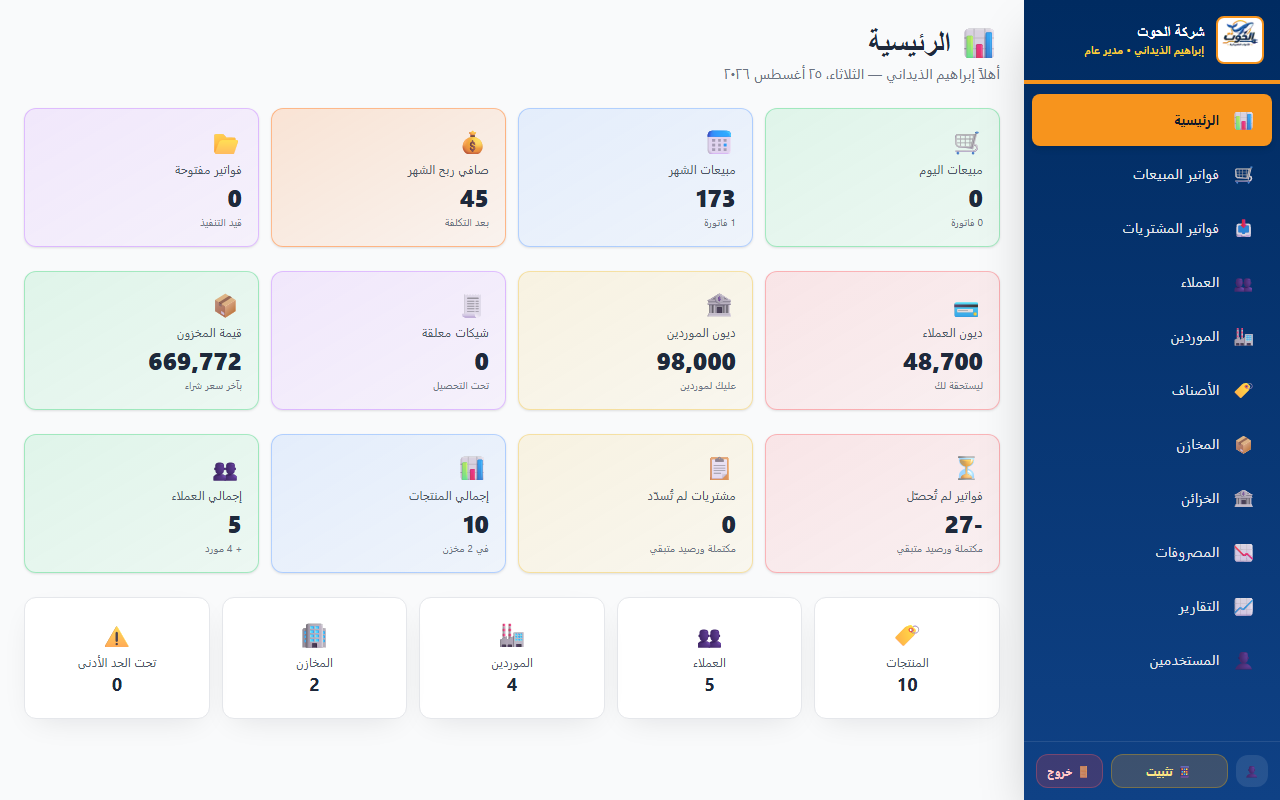
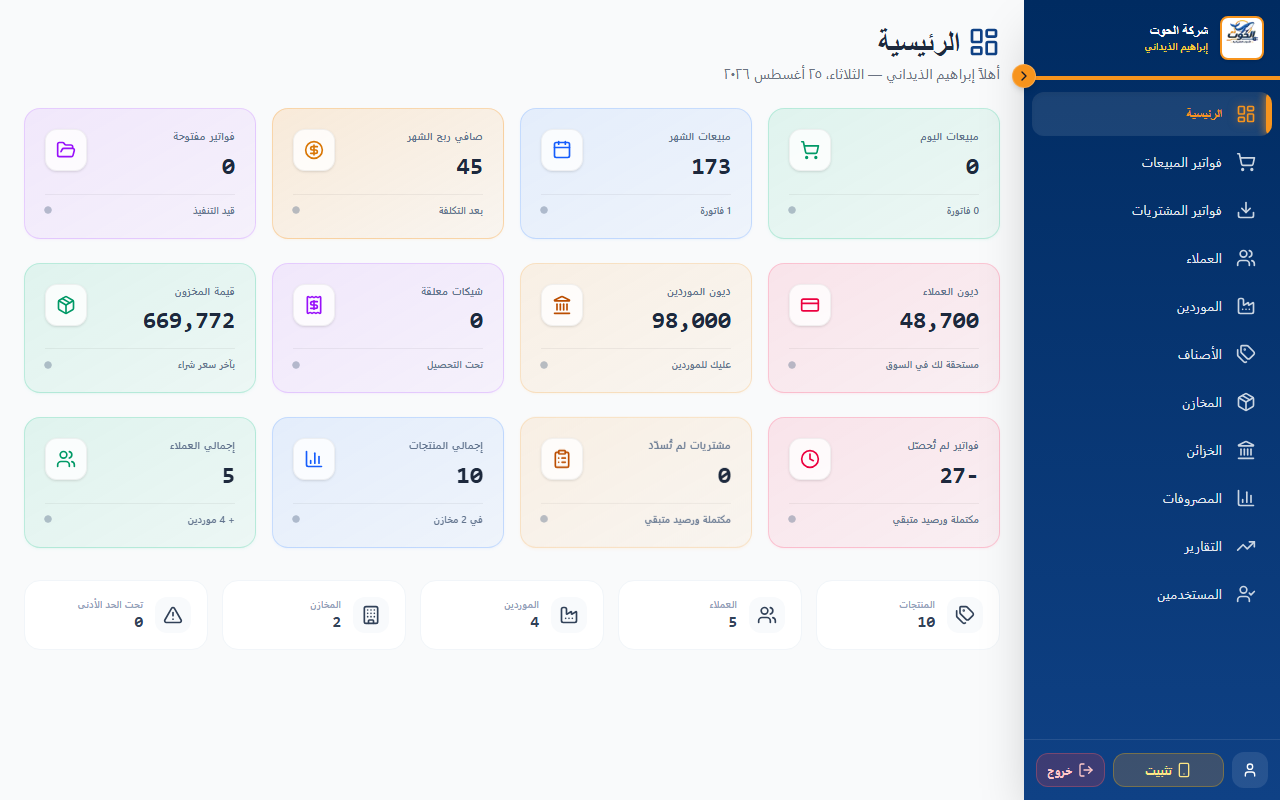
feat: Redesign dashboard, remove pulse animation and redundant KPI cards (checks, uncollected, unpaid)

diff --git a/src/app/(dashboard)/dashboard/page.tsx b/src/app/(dashboard)/dashboard/page.tsx
@@ -22,13 +22,9 @@ export default async function DashboardPage() {
     lowStockCount,
     todaySalesAgg,
     monthSalesAgg,
-    openInvoices,
-    pendingChecks,
     totalCustomersDebt,
     totalSuppliersDebt,
     totalInventoryValue,
-    unpaidSalesAgg,
-    unpaidPurchasesAgg,
   ] = await Promise.all([
     prisma.products.count({ where: { is_active: true } }),
     prisma.customers.count({ where: { is_active: true } }),
@@ -49,8 +45,6 @@ export default async function DashboardPage() {
       _sum: { total: true, net_profit: true },
       _count: true,
     }),
-    prisma.sales_invoices.count({ where: { status: 'قيد التنفيذ' } }),
-    prisma.checks.count({ where: { status: 'تحت التحصيل' } }),
     // ديون العملاء
     prisma.customers.aggregate({
       where: { is_active: true, balance: { gt: 0 } },
@@ -69,22 +63,10 @@ export default async function DashboardPage() {
           WHERE p.is_active = true AND i.current_stock > 0
         `.then(r => Number(r[0]?.total || 0))
       : Promise.resolve(0),
-    // فواتير بيع غير محصلة
-    prisma.sales_invoices.aggregate({
-      where: { status: 'مكتملة', invoice_type: { not: 'عرض سعر' } },
-      _sum: { total: true, paid_amount: true },
-    }),
-    // فواتير شراء غير مسددة
-    prisma.purchase_invoices.aggregate({
-      where: { status: 'مكتملة' },
-      _sum: { total_amount: true, paid_amount: true },
-    }),
   ]);
 
   const showCost = canSeeCost(profile);
   const lowStock = Number(lowStockCount[0]?.count || 0);
-  const pendingSalesAmount = Number(unpaidSalesAgg._sum.total || 0) - Number(unpaidSalesAgg._sum.paid_amount || 0);
-  const pendingPurchasesAmount = Number(unpaidPurchasesAgg._sum.total_amount || 0) - Number(unpaidPurchasesAgg._sum.paid_amount || 0);
 
   return (
     <div className="space-y-6">
@@ -107,13 +89,13 @@ export default async function DashboardPage() {
         </div>
       </div>
 
-      {/* KPIs — sales */}
+      {/* Row 1 — Sales & Stock Financials */}
       <div className="grid grid-cols-2 md:grid-cols-4 gap-4">
         <KpiCard
           iconKey="sales"
           label="مبيعات اليوم"
           value={Number(todaySalesAgg._sum.total || 0)}
-          subValue={`${todaySalesAgg._count} فاتورة`}
+          subValue={`${todaySalesAgg._count} فاتورة مكتملة`}
           color="green"
           isCurrency={true}
         />
@@ -121,7 +103,7 @@ export default async function DashboardPage() {
           iconKey="calendar"
           label="مبيعات الشهر"
           value={Number(monthSalesAgg._sum.total || 0)}
-          subValue={`${monthSalesAgg._count} فاتورة`}
+          subValue={`${monthSalesAgg._count} فاتورة مكتملة`}
           color="blue"
           isCurrency={true}
         />
@@ -135,40 +117,6 @@ export default async function DashboardPage() {
             isCurrency={true}
           />
         )}
-        <KpiCard
-          iconKey="folder"
-          label="فواتير مفتوحة"
-          value={openInvoices}
-          subValue="قيد التنفيذ"
-          color="purple"
-        />
-      </div>
-
-      {/* KPIs — money & debt */}
-      <div className="grid grid-cols-2 md:grid-cols-4 gap-4">
-        <KpiCard
-          iconKey="debt"
-          label="ديون العملاء"
-          value={Number(totalCustomersDebt._sum.balance || 0)}
-          subValue="مستحقة لك في السوق"
-          color="red"
-          isCurrency={true}
-        />
-        <KpiCard
-          iconKey="bank"
-          label="ديون الموردين"
-          value={Number(totalSuppliersDebt._sum.balance || 0)}
-          subValue="عليك للموردين"
-          color="yellow"
-          isCurrency={true}
-        />
-        <KpiCard
-          iconKey="check"
-          label="شيكات معلقة"
-          value={pendingChecks}
-          subValue="تحت التحصيل"
-          color="purple"
-        />
         {showCost && (
           <KpiCard
             iconKey="package"
@@ -181,41 +129,27 @@ export default async function DashboardPage() {
         )}
       </div>
 
-      {/* KPIs — المعلقات */}
-      <div className="grid grid-cols-2 md:grid-cols-4 gap-4">
+      {/* Row 2 — Debts & Balances */}
+      <div className="grid grid-cols-1 md:grid-cols-2 gap-4">
         <KpiCard
-          iconKey="clock"
-          label="فواتير لم تُحصّل"
-          value={pendingSalesAmount}
-          subValue="مكتملة ورصيد متبقي"
+          iconKey="debt"
+          label="ديون العملاء (اللي ليا في السوق)"
+          value={Number(totalCustomersDebt._sum.balance || 0)}
+          subValue="مستحقة لك طرف العملاء"
           color="red"
           isCurrency={true}
         />
         <KpiCard
-          iconKey="list"
-          label="مشتريات لم تُسدّد"
-          value={pendingPurchasesAmount}
-          subValue="مكتملة ورصيد متبقي"
+          iconKey="bank"
+          label="ديون الموردين (اللي عليا للموردين)"
+          value={Number(totalSuppliersDebt._sum.balance || 0)}
+          subValue="مستحقة للموردين عليك"
           color="yellow"
           isCurrency={true}
         />
-        <KpiCard
-          iconKey="chart"
-          label="إجمالي المنتجات"
-          value={totalProducts}
-          subValue={`في ${totalStores} مخازن`}
-          color="blue"
-        />
-        <KpiCard
-          iconKey="users"
-          label="إجمالي العملاء"
-          value={totalCustomers}
-          subValue={`+ ${totalSuppliers} موردين`}
-          color="green"
-        />
       </div>
 
-      {/* System stats */}
+      {/* Row 3 — System Statistics Counts */}
       <div className="grid grid-cols-2 md:grid-cols-5 gap-3.5 pt-2">
         <SmallStat iconKey="tags" label="المنتجات" value={totalProducts} />
         <SmallStat iconKey="users" label="العملاء" value={totalCustomers} />

diff --git a/src/components/DashboardCards.tsx b/src/components/DashboardCards.tsx
@@ -84,7 +84,6 @@ export function KpiCard({
       </div>
       <div className="text-[10px] text-slate-500 font-medium mt-3 border-t border-black/5 pt-2 flex items-center justify-between">
         <span>{subValue}</span>
-        <span className="w-1.5 h-1.5 rounded-full bg-current opacity-60 animate-ping" />
       </div>
     </div>
   );
